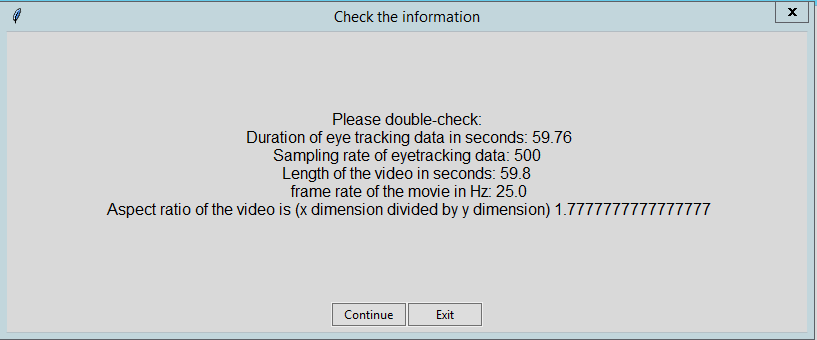
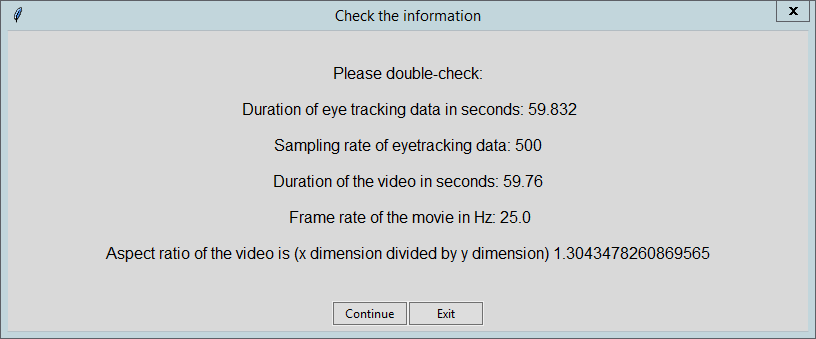
update

diff --git a/classes/App.py b/classes/App.py
@@ -250,9 +250,9 @@ class tkfunctions:
         self.top_checkinfo.title( "Check the information")
         self.top_checkinfo.configure(bg = "#d9d9d9")
         if not hasattr(self, "filename_csv"):
-            tk.Label(self.top_checkinfo, text =  f"Please double-check:\nLength of the video in seconds: {self.video_duration}\n frame rate of the movie in Hz: {self.video_fps}\n Aspect ratio of the video is (x dimension divided by y dimension) {1/self.video_ratio}", bg = "#d9d9d9",font = ("Arial", 12)).grid(column = 0, row = 0)
+            tk.Label(self.top_checkinfo, text =  f"Please double-check:\nDuration of the video in seconds: {self.video_duration}\n Frame rate of the movie in Hz: {self.video_fps}\n Aspect ratio of the video is (x dimension divided by y dimension) {1/self.video_ratio}", bg = "#d9d9d9",font = ("Arial", 12)).grid(column = 0, row = 0)
         else:
-            tk.Label(self.top_checkinfo, text =  f"Please double-check:\n Duration of eye tracking data in seconds: {self.eyetracking_duration}\nSampling rate of eyetracking data: {self.eyetracking_samplingrate}\nLength of the video in seconds: {self.video_duration}\n frame rate of the movie in Hz: {self.video_fps}\n Aspect ratio of the video is (x dimension divided by y dimension) {1/self.video_ratio}", bg = "#d9d9d9", font = ("Arial", 12)).grid(column = 0, row = 0)
+            tk.Label(self.top_checkinfo, text =  f"Please double-check:\n \n Duration of eye tracking data in seconds: {self.eyetracking_duration}\n \nSampling rate of eyetracking data: {self.eyetracking_samplingrate}\n \nDuration of the video in seconds: {self.video_duration}\n \n Frame rate of the movie in Hz: {self.video_fps}\n \nAspect ratio of the video is (x dimension divided by y dimension) {1/self.video_ratio}", bg = "#d9d9d9", font = ("Arial", 12), height = 500).grid(column = 0, row = 0)
         self.top_checkinfo.columnconfigure(0, weight=1)
         self.top_checkinfo.rowconfigure(0, weight=1)
         self.top_checkinfo.wm_transient(self.window)
